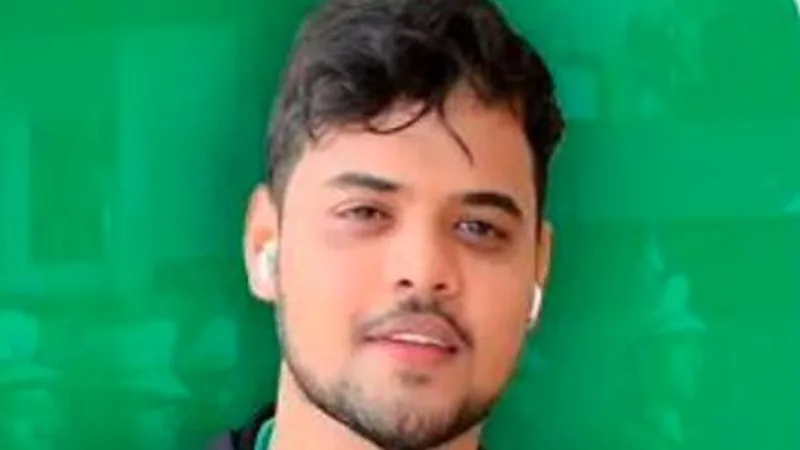
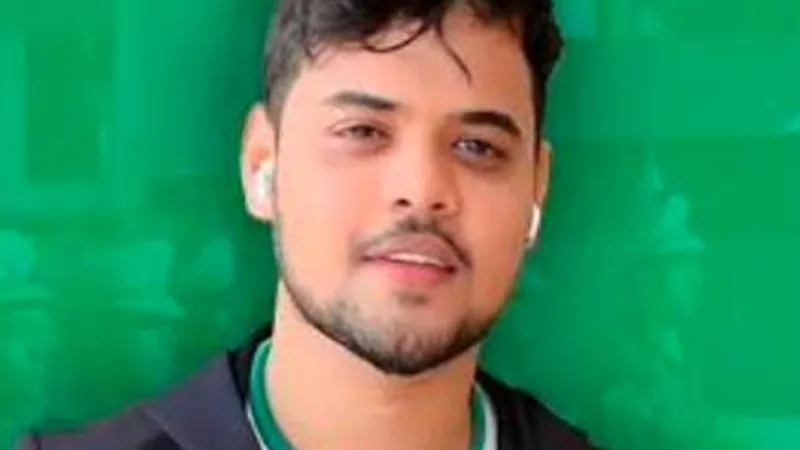
fix(catalog): cleaner course thumbnails + placeholder price
- re-crop juliet/india/game-changer thumbnails to subject-focused framing,
  dropping baked-in Add-to-Cart buttons, arrows, and (where possible) title text
- formatInr returns "xxxx" placeholder until client finalizes prices

diff --git a/lib/format.ts b/lib/format.ts
@@ -1,4 +1,6 @@
-/** Indian-format rupees, e.g. 9999 → "₹9,999". */
-export function formatInr(amountInr: number): string {
-  return `₹${amountInr.toLocaleString("en-IN")}`
+/** Indian-format rupees, e.g. 9999 → "₹9,999".
+ *  ponytail: prices not finalized by client — showing a placeholder everywhere.
+ *  Revert to `return \`₹${amountInr.toLocaleString("en-IN")}\`` once real prices land. */
+export function formatInr(_amountInr: number): string {
+  return "₹xxxx"
 }
